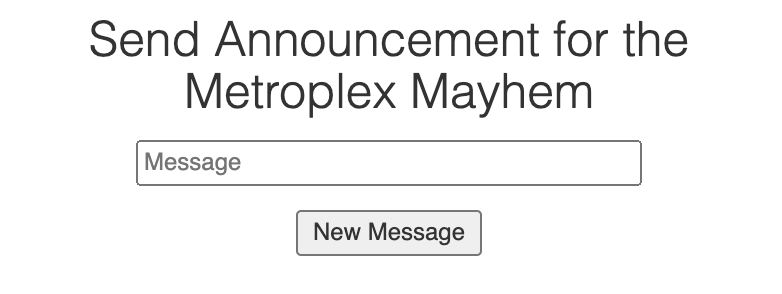
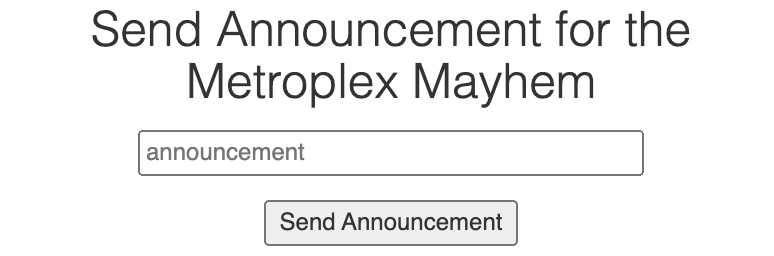
More updates

diff --git a/staff.md b/staff.md
@@ -36,7 +36,8 @@ and you will see a welcome message
 <br />
 
 
-You can now send new announcements
+Click on the Send Announcement button and the app will show the screen below where you can send new announcements
+
 ![send announcement](/assets/img/send_announcement.png)
 <br />
 <br />
